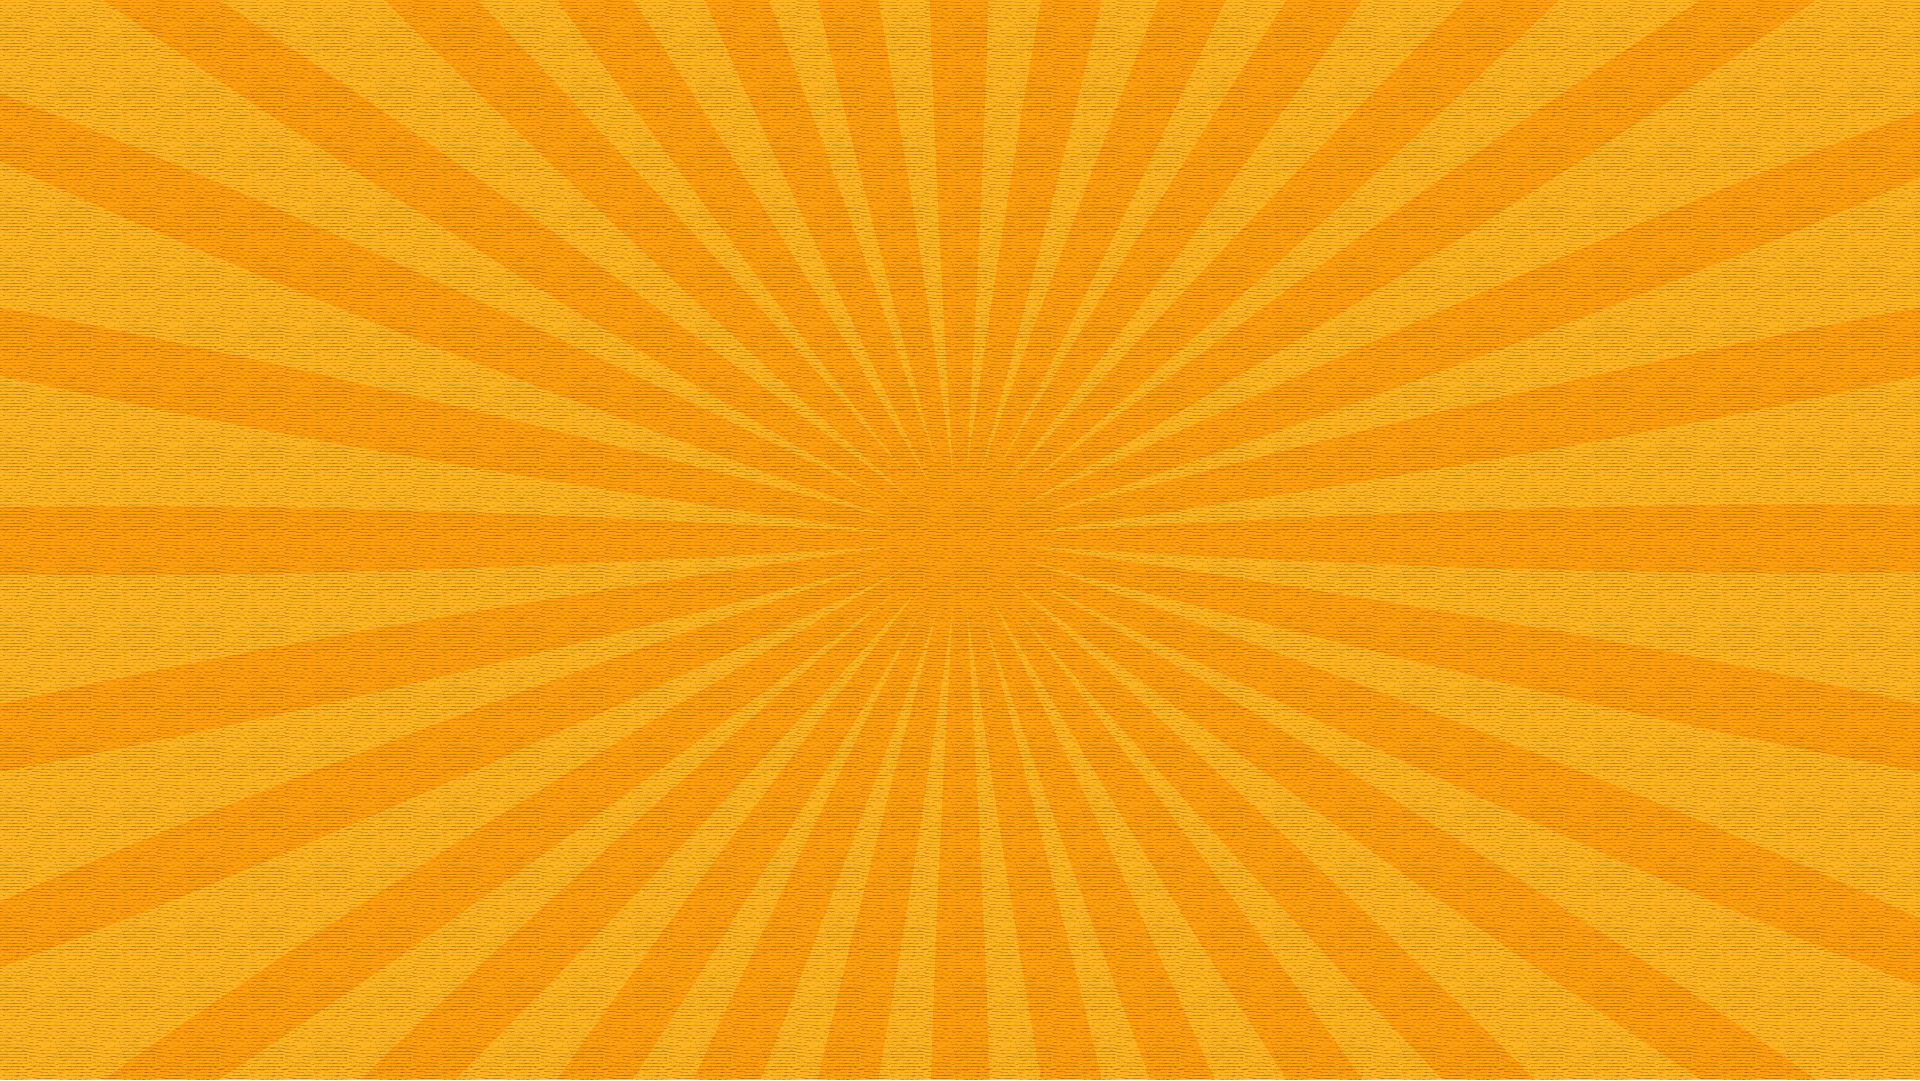
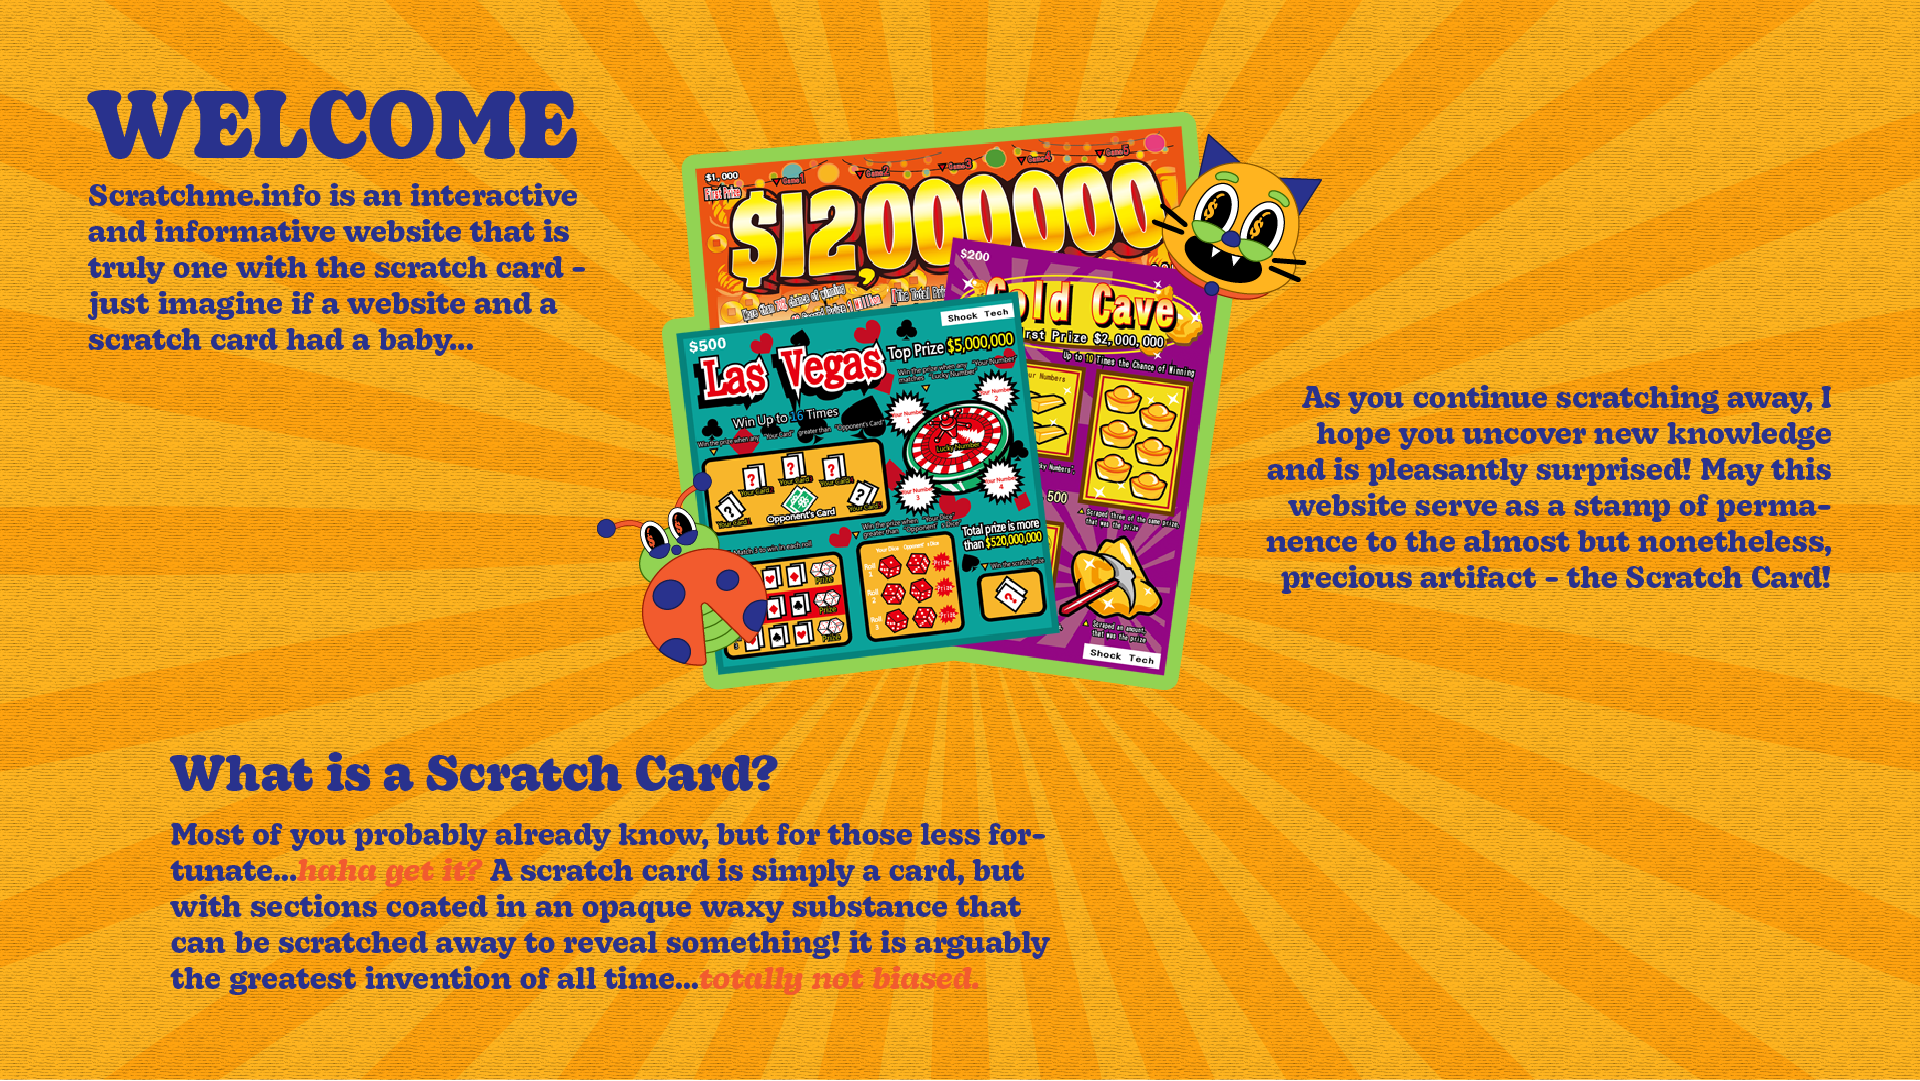
updated about bg

diff --git a/about style.css b/about style.css
@@ -46,50 +46,50 @@ html, body {
     right: 5vw;
   }
 
- .text-container1,
+ /* .text-container1,
  .text-container2,
  .text-container3 {
    position: absolute;
    width: 500px;
-   color: white; /* Adjust as needed */
+   color: white; 
    padding: 1em;
    font-size: 1.5rem;
- }
+ } */
 
  /* Top left corner */
- .text-container1 {
+ /* .text-container1 {
    top: 2%;
    left: 2%;
    text-align: left;
- }
+ } */
 
  /* Bottom center */
- .text-container2 {
+ /* .text-container2 {
    bottom: 2%;
    left: 30%;
    transform: translateX(-50%);
    width:700px;
- }
+ } */
 
  /* Middle right */
- .text-container3 {
+ /* .text-container3 {
    top: 40%;
    right: 2%;
    transform: translateY(-50%);
    text-align: right;
    width: 460px;
- }
+ } */
 
- .scratchcard-image {
+ /* .scratchcard-image {
    position: absolute;
    top: 43%;
    left: 50%;
    transform: translate(-50%, -50%);
   
-   width: 400px;  /* Adjust as needed */
+   width: 400px;  
    height: auto;
-   z-index: 5;    /* Make sure it’s above background and below UI if needed */
- }
+   z-index: 5;    
+ } */
 
  body {
    background-image: url('about bg desktop.webp');
@@ -102,7 +102,7 @@ html, body {
 
 @media screen and (max-width: 479px) {
   body {
-    background-image: url('about bg mobile.webp');
+    background-image: url('about bg mobile w text.webp');
     background-size: cover;
     background-position: center;
     background-repeat: no-repeat;
@@ -121,7 +121,14 @@ html, body {
     max-width: 300px;
   }
 
-  .text-container1,
+  .back-btn {
+    position: absolute;         /* Ensure it's positioned relative to the nearest positioned ancestor */
+    bottom: 5vh;                /* Distance from bottom */
+    left: 50%;                  
+    transform: translateX(-50%); 
+  }
+
+  /* .text-container1,
   .text-container2,
   .text-container3{
     position: static;
@@ -129,16 +136,16 @@ html, body {
     max-width: 500px;
     text-align: center;
     color: white;
-  }
+  } */
   
-  .scratchcard-image {
+  /* .scratchcard-image {
     display: flex;
     justify-content: center;
     align-items: center;
-    width: 200px;  /* Adjust as needed */
+    width: 200px;  
     height: auto;
-    margin: 1em 0; /* Optional: spacing around image */
-  }
+    margin: 1em 0; 
+  } */
 
   /* .scratchcard-image img {
     width: 3vw;
@@ -148,12 +155,12 @@ html, body {
     margin: 0 auto;
   } */
 
-  .text-container1,
+  /* .text-container1,
   .text-container2,
   .text-container3 {
     font-size: 0.9rem;
     padding: 0.3em;
-  }
+  } */
 }
 
 /* Canvas container (scratch card) is behind images */

diff --git a/about.html b/about.html
@@ -9,7 +9,7 @@
 </head>
 <body>
 
-    <div class ="text-container1">
+    <!-- <div class ="text-container1">
       <h1>WELCOME</h1>
       <p>Scratchme.info is an interactive and informative website that is truly one with the scratch card - just imagine if a website and a scratch card had a baby...</p>
     </div>
@@ -23,7 +23,7 @@
 
     <div class ="text-container3">
       <p>As you continue to scratch away, I hope you uncover new knowledge and is pleasantly surprised! May this website serve as a stamp of permanence to the almost but nonetheless, precious and one of a kind artifact - the Scratch Card!</p>
-    </div>
+    </div> -->
 
     <div class="image-container">
       <a href="index.html"><img src="back button.png" class="link-image back-btn"></a>
